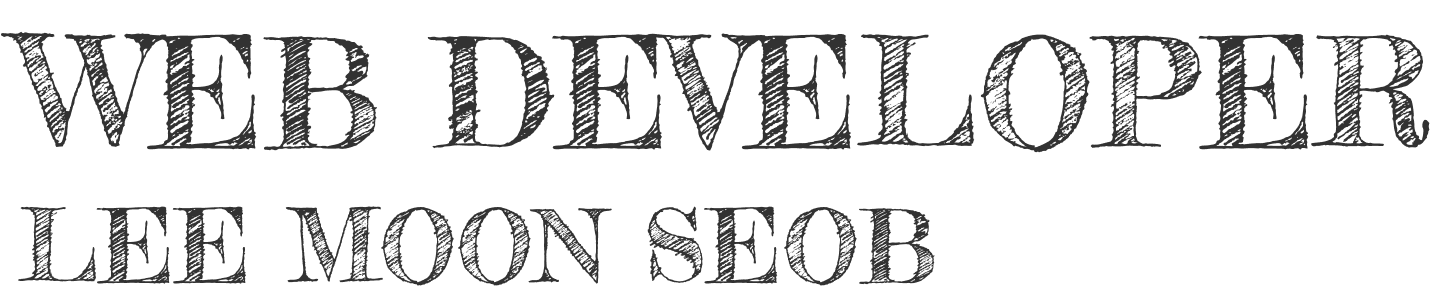
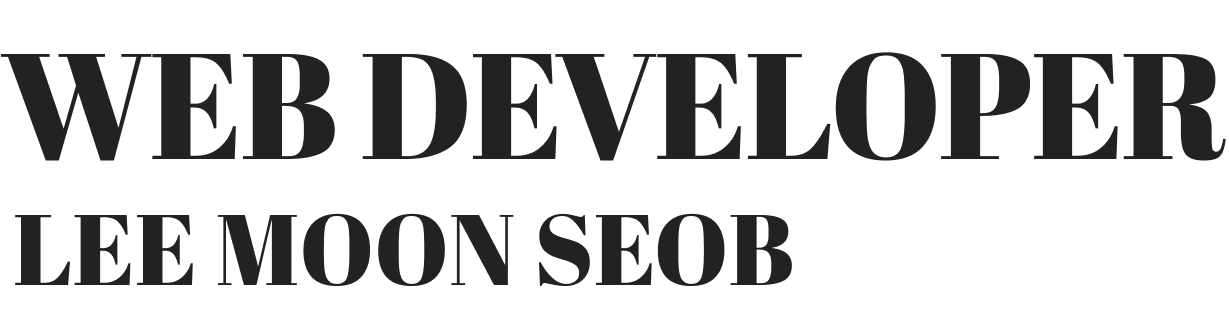
Update: MainIntro background color and border size

Changed region(s): [[0.0, 0.0879, 1.0, 0.5277], [0.0, 0.6743, 0.6802, 0.9381]]

diff --git a/src/assets/scss/components/main/MainIntro.scss b/src/assets/scss/components/main/MainIntro.scss
@@ -1,5 +1,13 @@
 body.dark{
     .visualWrap{
+        //  background: linear-gradient(
+        // 135deg, 
+        // #45e7ff 0%,#45e7ff 17%,
+        // #423ee7 33%,
+        // #8848df 50%,
+        // #fbaeae 67%,
+        // #f9fbae 83%,
+        // #72f382 100%);    
         .wholeBtn{
             span{
                 &.active{
@@ -63,31 +71,44 @@ body.dark{
 
 .visualWrap{
     position: relative; z-index: 10;
-    border: 1.5rem solid #fff; box-sizing: border-box;
+    border: 2rem solid #fff; box-sizing: border-box;
     width: 100%; margin: 0 auto; min-height: calc(var(--vh, 1vh) * 100);
+    // background: linear-gradient(
+    //     135deg, 
+    //     #F9EFE7 0%,#F9EFE7 17%,
+    //     #fff1ad 33%,
+    //     #D7E0FF 50%,
+    //     #FADEE0 67%,
+    //     #b4beff 83%,
+    //     #d3d8fa 100%);
     background: linear-gradient(
-        135deg, rgba(69,231,255,1) 0%,rgba(69,231,255,1) 17%,
-        rgba(66,62,231,1) 33%,rgba(136,72,223,1) 50%,rgba(251,174,174,1) 67%,rgba(249,251,174,1) 83%,rgba(114,243,130,1) 100%);
+        135deg, 
+        #bbf9fd 0%,#bbf9fd 17%,
+        #FFF3E2 33%,
+        #D7E9B9 50%,
+        #fff2b9 67%,
+        #FEBE8C 83%,
+        #FF9F9F 100%);    
     background-size: 1000% 1000%;
     animation: animationName 35s ease infinite;
     .wholeBtn{
         position: absolute; top: 2rem; right: 3rem; z-index: 9998; text-align: center; padding: 1.5rem 0;
         span{
             position: relative;
-            display: inline-block; width: 4rem; height: .2rem; background: #fff; transition: all .5s;
+            display: inline-block; width: 4rem; height: .2rem; background: #222; transition: all .5s;
             &::before{
-                content: ''; position: absolute; top: -1.1rem; left: 0; width: 100%; height: .2rem; background: #fff; transition: all .5s;
+                content: ''; position: absolute; top: -1.1rem; left: 0; width: 100%; height: .2rem; background: #222; transition: all .5s;
             }
             &::after{
-                content: ''; position: absolute; top: 1.1rem; left: 0; width: 100%; height: .2rem; background: #fff; transition: all .5s;
+                content: ''; position: absolute; top: 1.1rem; left: 0; width: 100%; height: .2rem; background: #222; transition: all .5s;
             }
             &.active{
                 background: transparent;
                 &::after{
-                    top: 0; transform: rotate(45deg); background: #000;
+                    top: 0; transform: rotate(45deg); background: #222;
                 }
                 &::before{
-                    top: 0; transform: rotate(-45deg); background: #000;
+                    top: 0; transform: rotate(-45deg); background: #222;
                 }
             }
         }
@@ -96,7 +117,7 @@ body.dark{
         &.showing{
             left: 0; visibility: visible;
         }
-        position: absolute;  left: -100vw;  top: 0; width: 100%; z-index: 4000; min-height: calc(var(--vh, 1vh) * 100 - 3rem); background: #fff;
+        position: absolute;  left: -100vw;  top: 0; width: 100%; z-index: 4000; min-height: calc(var(--vh, 1vh) * 100 - 4rem); background: #fff;
         visibility: hidden;
         transition: all .5s;
         ul{
@@ -128,7 +149,7 @@ body.dark{
         }
     }
     .intro{
-        position: absolute; top: 50%; transform: translateY(-50%); left: .5rem;
+        position: absolute; top: 50%; transform: translateY(-50%); left: 1rem;
     }
     .mobile{
         display: none;
@@ -136,13 +157,13 @@ body.dark{
     .scroll{
         position: absolute; bottom: 6rem; left: 50%; transform: translateX(-50%);
         p{
-            font-size: 1.6rem; color: #fff;
+            font-size: 1.6rem; color: #222; font-weight: bold;
             position: relative;
             animation: scroll 3s ease infinite;
         }
         &::after{
             content: ''; position: absolute; top: 2rem; left: 50%; transform: translateX(-50%);
-            width: 1px; height: 4rem; background: #fff;
+            width: 1px; height: 4rem; background: #222;
             animation: stick 3s ease infinite;
         }
     }
@@ -151,7 +172,7 @@ body.dark{
 @media all and (max-width:1320px){
     .visualWrap{
         .intro{
-            width: 90%;
+            width: 80%;
         }
         .window{
             display: none;
@@ -178,6 +199,9 @@ body.dark{
 
 @media all and (max-width:600px){
     .visualWrap{
-        border: 1rem solid #fff;
+        border: 1.5rem solid #fff;
+        nav{
+            min-height: calc(var(--vh, 1vh) * 100 - 3rem);
+        }
     }
 }

diff --git a/src/components/main/MainIntro.vue b/src/components/main/MainIntro.vue
@@ -2,13 +2,13 @@
     <div class="visualWrap">
         <img
             class="intro window"
-            src="@/assets/image/word.png"
+            src="@/assets/image/wordark.png"
             alt="word"
             @load="onLoadImage"
         />
         <img
             class="intro mobile"
-            src="@/assets/image/word2.svg"
+            src="@/assets/image/wordark1.svg"
             alt="word"
             @load="onLoadImage"
         />
